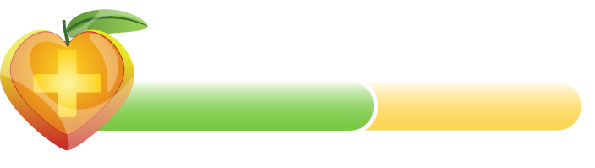
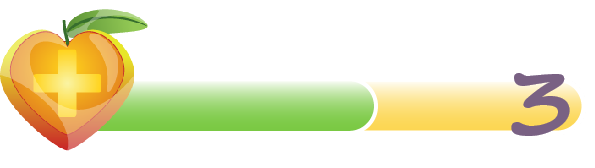
insertet status bar numbers and added animation for bonus life

Changed region(s): [[0.8471, 0.4167, 0.9681, 0.8333]]

diff --git a/models/world.class.js b/models/world.class.js
@@ -142,12 +142,12 @@ class World {
             this.statusBars[0].setPercentage(this.statusBars[0].paths, this.character.energy);
             this.statusBars[1].percentage = 0;
             this.statusBars[1].setPercentage(this.statusBars[1].paths, this.statusBars[1].percentage);
-            this.statusBars[0].height = 60;
-            this.statusBars[0].width = 210;
+            this.statusBars[0].height = 70;
+            this.statusBars[0].width = 230;
             setTimeout(() => {
                 this.statusBars[0].height = 50;
                 this.statusBars[0].width = 190;
-            }, 100);
+            }, 250);
         }
     }
     
